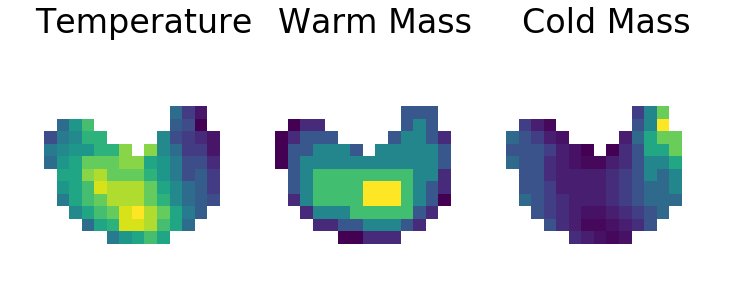
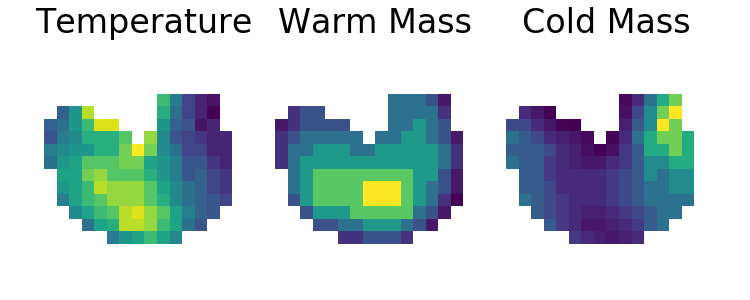
Fix Kernel Res Conversion

Changed region(s): [[0.368, 0.3, 0.644, 0.84], [0.0613, 0.3, 0.3067, 0.81], [0.6747, 0.3, 0.9507, 0.81]]

diff --git a/Plotting/PixelByPixelSED.py b/Plotting/PixelByPixelSED.py
@@ -19,10 +19,9 @@ import Eqs
 ##############
 ## Switches ##
 ##############
-version_1 = False
-version_2 = True
-save = True
-show = False
+
+save = False
+show = True
 sigma_fit = 0
 
 ##################
@@ -55,98 +54,53 @@ Px = [133,123,128]; Py = [121,118,116]
 ##########
 # Plot   #
 ##########
-if version_1:
-	# Initialize Plot
-	f = plt.figure(figsize=(6,7))
 
-	# Initialize SED Plots
-	cx = plt.subplot2grid((3,2),(0,1))
-	dx = plt.subplot2grid((3,2),(1,1))
-	ix = plt.subplot2grid((3,2),(2,1))
+# Initialize Plot
+f = plt.figure(figsize=(7,6))
 
-	# Initialize 160 um image. 
-	ex = plt.subplot2grid((3,2),(0,0),rowspan=3)
+# Initialize SED Plots
+cx = plt.subplot2grid((2,2),(0,1))
+dx = plt.subplot2grid((2,2),(0,0))
+ix = plt.subplot2grid((2,2),(1,1))
 
-	plots = [cx,dx,ix]
-	#colors = ["red","aqua","yellow"]
-	colors = ["darkviolet","#FF00FF","red"]
-	cmap = plt.get_cmap('viridis')
+# Initialize 160 um image. 
+ex = plt.subplot2grid((2,2),(1,0),rowspan=1)
 
-	# SNR Image
-	ex.imshow(img,vmin=np.nanmin(img),vmax=np.nanmax(img))
-	ex.set_xlim(xdim)
-	ex.set_ylim(ydim)
-	ex.axis("off")
-	ex.scatter(Px,Py,s=60, marker='s',facecolors='none',edgecolors=colors)
+plots = [cx,dx,ix]
+#colors = ["red","aqua","yellow"]
+colors = ["#0900ff","#000000","fuchsia"]
+cmap = plt.get_cmap('viridis')
 
-	for i in range(3):
-		ObsvSed = [data[0][Py[i],Px[i]],data[1][Py[i],Px[i]],data[2][Py[i],Px[i]],data[3][Py[i],Px[i]]]
-		ObsvErr = Eqs.error(ObsvSed)
-		plots[i].plot(lam,Pix_Warm_SED[Py[i],Px[i]]+Pix_Cold_SED[Py[i],Px[i]],label="Total SED",color="#424186")
-		plots[i].plot(lam,Pix_Warm_SED[Py[i],Px[i]],label="Warm SED",color="#84D44B",ls='dashed')
-		plots[i].plot(lam,Pix_Cold_SED[Py[i],Px[i]],label="Cold SED",color="#23A883")		
+# SNR Image
+ex.imshow(img,vmin=np.nanmin(img),vmax=np.nanmax(img))
+ex.set_xlim(xdim)
+ex.set_ylim(ydim)
+ex.axis("off")
+ex.scatter(Px,Py,s=80, marker='s',facecolors='none',edgecolors=colors,linewidths=1.5)
 
-		plots[i].errorbar(wv,ObsvSed,yerr=ObsvErr,marker='o',linestyle='none',c='black')
-		plots[i].grid(color='white',linestyle='-')
-		plots[i].set_facecolor("#EAEAF2")
+for i in range(3):
+	ObsvSed = [data[0][Py[i],Px[i]],data[1][Py[i],Px[i]],data[2][Py[i],Px[i]],data[3][Py[i],Px[i]]]
+	ObsvErr = Eqs.error(ObsvSed)
+	plots[i].plot(lam,Pix_Warm_SED[Py[i],Px[i]]+Pix_Cold_SED[Py[i],Px[i]],label="Total SED",color="#424186")
+	plots[i].plot(lam,Pix_Warm_SED[Py[i],Px[i]],label="Warm SED",color="#84D44B",ls='dashed')
+	plots[i].plot(lam,Pix_Cold_SED[Py[i],Px[i]],label="Cold SED",color="#23A883")		
 
-		plots[i].spines['bottom'].set_color(colors[i])
-		plots[i].spines['top'].set_color(colors[i]) 
-		plots[i].spines['right'].set_color(colors[i])
-		plots[i].spines['left'].set_color(colors[i])
+	plots[i].errorbar(wv,ObsvSed,yerr=ObsvErr,marker='o',linestyle='none',c='black')
+	plots[i].grid(color='white',linestyle='-')
+	plots[i].set_facecolor("#EAEAF2")
 
-	plots[0].legend()	
-	plots[1].set_ylabel("Spectral Intensity (MJy sr$^{-1}$)")
-	plots[2].set_xlabel("Wavelength ($\mu m$)")
+	spines = ["bottom","top","right","left"]
+	for spine in spines:
+		plots[i].spines[spine].set_color(colors[i])
+		plots[i].spines[spine].set_linewidth(1.5)
 
-	plt.subplots_adjust(top=.99, bottom=0.05, left=0.0, right=.99, hspace=0.2, wspace=0.09)
-if version_2:
-	# Initialize Plot
-	f = plt.figure(figsize=(7,6))
 
-	# Initialize SED Plots
-	cx = plt.subplot2grid((2,2),(0,1))
-	dx = plt.subplot2grid((2,2),(0,0))
-	ix = plt.subplot2grid((2,2),(1,1))
 
-	# Initialize 160 um image. 
-	ex = plt.subplot2grid((2,2),(1,0),rowspan=1)
+plots[0].legend()	
+plots[1].set_ylabel("Spectral Intensity (MJy sr$^{-1}$)")
+plots[2].set_xlabel("Wavelength ($\mu m$)")
 
-	plots = [cx,dx,ix]
-	#colors = ["red","aqua","yellow"]
-	colors = ["#0900ff","#000000","fuchsia"]
-	cmap = plt.get_cmap('viridis')
-
-	# SNR Image
-	ex.imshow(img,vmin=np.nanmin(img),vmax=np.nanmax(img))
-	ex.set_xlim(xdim)
-	ex.set_ylim(ydim)
-	ex.axis("off")
-	ex.scatter(Px,Py,s=80, marker='s',facecolors='none',edgecolors=colors,linewidths=1.5)
-
-	for i in range(3):
-		ObsvSed = [data[0][Py[i],Px[i]],data[1][Py[i],Px[i]],data[2][Py[i],Px[i]],data[3][Py[i],Px[i]]]
-		ObsvErr = Eqs.error(ObsvSed)
-		plots[i].plot(lam,Pix_Warm_SED[Py[i],Px[i]]+Pix_Cold_SED[Py[i],Px[i]],label="Total SED",color="#424186")
-		plots[i].plot(lam,Pix_Warm_SED[Py[i],Px[i]],label="Warm SED",color="#84D44B",ls='dashed')
-		plots[i].plot(lam,Pix_Cold_SED[Py[i],Px[i]],label="Cold SED",color="#23A883")		
-
-		plots[i].errorbar(wv,ObsvSed,yerr=ObsvErr,marker='o',linestyle='none',c='black')
-		plots[i].grid(color='white',linestyle='-')
-		plots[i].set_facecolor("#EAEAF2")
-
-		spines = ["bottom","top","right","left"]
-		for spine in spines:
-			plots[i].spines[spine].set_color(colors[i])
-			plots[i].spines[spine].set_linewidth(1.5)
-
-	
-
-	plots[0].legend()	
-	plots[1].set_ylabel("Spectral Intensity (MJy sr$^{-1}$)")
-	plots[2].set_xlabel("Wavelength ($\mu m$)")
-
-	plt.subplots_adjust(top=.99, bottom=0.09, left=0.09, right=.99, hspace=0.2, wspace=0.12)
+plt.subplots_adjust(top=.99, bottom=0.09, left=0.09, right=.99, hspace=0.2, wspace=0.12)
 if save:
 	plt.savefig("Plots/PixelByPixel.png",dpi=200)
 if show:

diff --git a/SED_Fitting/PixByPix_SED.py b/SED_Fitting/PixByPix_SED.py
@@ -113,9 +113,12 @@ if load_data:
     ColdMass_Confidence = np.load("Sols/PixbyPix/Cold_Mass_Confidence.npy")
     WarmMass_Confidence = np.load("Sols/PixbyPix/Warm_Mass_Confidence.npy")
 
+    sky_noise = np.loadtxt("../Sky_Remove/Sigma.txt")
+    res_conversion = np.loadtxt("../Sky_Remove/native_res_to_160_res.txt")
+
     # Confidence Interval
     # ========================================================
-    sigma_fit = 0 # 0 is 1 sigma, 1 is 2 sigma, 2 is 3 sigma. 
+    sigma_fit = 1 # 0 is 1 sigma, 1 is 2 sigma, 2 is 3 sigma. 
     # ========================================================
 
     # To get the error I'm calculating the frobenius norm of the interval map
@@ -134,33 +137,35 @@ if load_data:
     print("...")
     
     # Create Detection Limited Template
-    # =====================================================================
-    n = 0 # Sets the threshhold for what factor times the noise is removed
-    # =====================================================================
+    # ========================================================
+    # Sets what multiple of the sky's noise to remove. 
+    # ========================================================
+    noise_multiplier = 3
+    # ========================================================
+    # Initialize array of empty 2d matrices the size of the images.
+    empty_template = np.zeros(np.shape(DataCube[:,:,0])[0]*np.shape(DataCube[:,:,0])[1]).reshape(np.shape(DataCube[:,:,0])[0],np.shape(DataCube[:,:,0])[1])
+    templates = [np.copy(empty_template),np.copy(empty_template),np.copy(empty_template),np.copy(empty_template)]
 
-    Noise = np.loadtxt('../Sky_Remove/Sigma.txt')
-    FlatData = np.sum(np.copy(DataCube),axis=2)
-    nan_r, nan_c = np.where(np.isnan(FlatData))
-    FlatData[nan_r,nan_c] = 0
-    Template = np.copy(FlatData)
-    Template[np.where(np.copy(FlatData) > n * np.sum(Noise))] = 1
-    Template[np.where(np.copy(FlatData) < n * np.sum(Noise))] = 0
-    
-    # Save Template, without nans
- #   np.savetxt("Sols/Templates/Template_"+str(n)+".txt",Template) 
+    for i in range(4):
+        for j in range(np.shape(DataCube[:,:,i])[0]):
+            for k in range(np.shape(DataCube[:,:,i])[1]):
+                if np.isfinite(DataCube[:,:,i][j,k]):
+                    # If the data is greater than some multiple of the noise, keep it by setting it to 1. 
+                    if DataCube[:,:,i][j,k] > noise_multiplier * sky_noise[i] / res_conversion[i]: 
+                        templates[i][j,k] = 1
 
-    # Save Template, with nans, useful later when we're drawing boxes around the detection limited pixels
-    nan_Template = np.copy(Template)
-    nan_Template[nan_r,nan_c] = np.nan
-    np.savetxt("Sols/Templates/Template_"+str(n)+"_with_NaNs.txt",nan_Template)
+    # Multiply all 4 templates together to get a final template             
+    template = np.ones(np.shape(DataCube[:,:,0])[0]*np.shape(DataCube[:,:,0])[1]).reshape(np.shape(DataCube[:,:,0])[0],np.shape(DataCube[:,:,0])[1])
+    for item in templates:
+        template *= item    
 
     # Multiply it by Maps and then take Stats
-    print("Total Mass "+str(np.sum(np.copy(ColdMass_Map)*Template)+np.sum(np.copy(WarmMass_Map)*Template))
-            + " pm " + str(np.linalg.norm((np.copy(ColdMass_Confidence[:,:,sigma_fit])+np.copy(WarmMass_Confidence[:,:,sigma_fit]))*Template,ord='fro')))
-    print("Cold Mass "+str(np.sum(np.copy(ColdMass_Map)*Template)) 
-            + " pm " + str(np.linalg.norm(np.copy(ColdMass_Confidence[:,:,sigma_fit])*Template,ord='fro')))
-    print("Warm Mass "+str(np.sum(np.copy(WarmMass_Map)*Template))
-            + " pm " + str(np.linalg.norm(np.copy(WarmMass_Confidence[:,:,sigma_fit])*Template,ord='fro')))
+    print("Total Mass "+str(np.sum(np.copy(ColdMass_Map)*template)+np.sum(np.copy(WarmMass_Map)*template))
+            + " pm " + str(np.linalg.norm((np.copy(ColdMass_Confidence[:,:,sigma_fit])+np.copy(WarmMass_Confidence[:,:,sigma_fit]))*template,ord='fro')))
+    print("Cold Mass "+str(np.sum(np.copy(ColdMass_Map)*template)) 
+            + " pm " + str(np.linalg.norm(np.copy(ColdMass_Confidence[:,:,sigma_fit])*template,ord='fro')))
+    print("Warm Mass "+str(np.sum(np.copy(WarmMass_Map)*template))
+            + " pm " + str(np.linalg.norm(np.copy(WarmMass_Confidence[:,:,sigma_fit])*template,ord='fro')))
     
-    print("Average Temperature "+str(np.mean((np.copy(Temperature_Map)*Template)[np.where(Temperature_Map > 0)]))
-            +" pm "+str(np.mean((np.copy(Temperature_Confidence[:,:,sigma_fit])*Template)[np.where(Temperature_Map>0)])))
+    print("Average Temperature "+str(np.mean((np.copy(Temperature_Map)*template)[np.where(Temperature_Map > 0)]))
+            +" pm "+str(np.mean((np.copy(Temperature_Confidence[:,:,sigma_fit])*template)[np.where(Temperature_Map>0)])))

diff --git a/Plotting/Maps.py b/Plotting/Maps.py
@@ -90,6 +90,7 @@ Pix_Cold_Mass = np.loadtxt("../SED_Fitting/Sols/PixbyPix/ColdMass.txt")
 Pix_chisqrd = np.loadtxt("../SED_Fitting/Sols/PixbyPix/ChiSquared.txt")
 
 sky_noise = np.loadtxt("../Sky_Remove/Sigma.txt")
+res_conversion = np.loadtxt("../Sky_Remove/native_res_to_160_res.txt")
 
 Maps = [Pix_Temp,Pix_Warm_Mass,Pix_Cold_Mass]
 Titles = ["Temperature","Warm Mass","Cold Mass"]
@@ -114,7 +115,7 @@ for i in range(4):
 		for k in range(np.shape(data[i])[1]):
 			if np.isfinite(data[i][j,k]):
 				# If the data is greater than some multiple of the noise, keep it by setting it to 1. 
-				if data[i][j,k] > noise_multiplier * sky_noise[i]: 
+				if data[i][j,k] > noise_multiplier * sky_noise[i] / res_conversion[i]: 
 					templates[i][j,k] = 1
 
 # Multiply all 4 templates together to get a final template				

diff --git a/Plotting/E0102_RC.py b/Plotting/E0102_RC.py
@@ -78,7 +78,7 @@ ax_cbar = f.add_axes([p0[0], 0.1, p1[2]-p0[0], 0.07])
 cbar = plt.colorbar(cax, cax=ax_cbar, orientation='horizontal')
 cbar.outline.set_visible(False)
 cbar.ax.tick_params(labelsize=12) 
-
+cbar.ax.set_title("MJy/sr")
 plt.subplots_adjust(wspace=-.15,hspace=-.1,top=1,bottom=.120,right=1,left=0)
 
 if save:
@@ -111,7 +111,7 @@ for i in range(2):
 		cb = plt.colorbar(im,cax=ax_cb)
 		cb.ax.tick_params(labelsize=12) 
 		cb.outline.set_visible(False)
-
+		cb.ax.set_title("MJy/sr")
 		count += 1
 # Adjust Plot
 plt.subplots_adjust(wspace=-0.05,hspace=0,top=.98,bottom=0,right=.95,left=-0.05)
